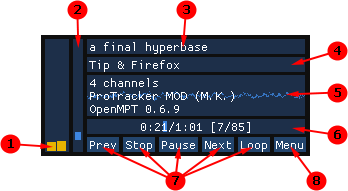
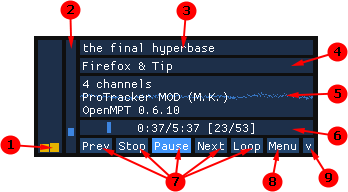
replayer: bump version to 0.3.0

diff --git a/source/RePlayer/CoreVersion.cpp b/source/RePlayer/CoreVersion.cpp
@@ -17,8 +17,8 @@
 namespace rePlayer
 {
     static constexpr uint32_t kMajorVersion = 0;
-    static constexpr uint32_t kMinorVersion = 2;
-    static constexpr uint32_t kPatchVersion = 1;
+    static constexpr uint32_t kMinorVersion = 3;
+    static constexpr uint32_t kPatchVersion = 0;
     static constexpr uint32_t kVersion = (kMajorVersion << 28) | (kMinorVersion << 14) | kPatchVersion;
 
     uint32_t Core::GetVersion()

diff --git a/README.md b/README.md
@@ -31,8 +31,9 @@ The main panel where you can see your playing song, and interact with the playba
 4. Artist(s).
 5. Playback informations (number of channels, playback type, player).
 6. Seek bar displaying playback time and song length (and playlist position and size). It's possible you can't interact with it if the player doesn't allow it.
-7. Classic playback buttons (go to previous song in the playlist, stop, play/pause, go to next song in the playlist, toogle the playlist loop)
-8. Menu (access to settings, enable/disable other panels, close the application...)
+7. Classic playback buttons (go to previous song in the playlist, stop, play/pause, go to next song in the playlist, toogle the playlist loop).
+8. Menu (access to settings, enable/disable other panels, close the application...).
+9. Song metadata, click to expand/fold the deck (protracker instruments, id tags, extra informations...).
 
 ## The library
 
@@ -84,7 +85,7 @@ Right click on selected songs bring a menu:
 ![rePlayer's Song Editor](/doc/songed.png)
 
 You can edit all the properties of a song there.
-- Info: database id (with L for library and P for playlist), file size, file crc and release year.
+- Info: database id (with L for library and P for playlist), file size, date when the file was added to the database and release year.
 - Title: main song title.
 - Subsong: if there are subsongs you can unfold by click the Subsong label. Change here the subsong title, end of playback behavior and rating.
 - Artist: the artist(s); you can add, remove and re-order these.
@@ -113,9 +114,10 @@ Note 2: while drag and dropping files, keep Ctrl pressed to force all files in t
 
 Enable/disable the songs focus there (when a song start to play, it is focused in the playlist and/or database).  
 AutoSave frequency of the rePlayer. (it will save on quit anyway).  
+Enable/disable the media hot keys (for playback and volume).  
 Transparency of the windows.  
 Live loggin can be enabled/disabled as well as its save on the disk. The log retention can be changed too (older log files than the retention days limit are deleted).  
-You can change the global settings of each players. I will not enter into the details here, I'm too lazy.
+You can change the global settings of each players. I will not enter into the details here, I'm too lazy (I've just enabled by default my simple surround filter because I like it).
 
 ## The tray icon
 
@@ -134,10 +136,11 @@ Middle click will turn on/off the invert States flag.
 ## Web Sites
 
 Here are the actual web sites you can import from (and thank you for all these repositories):
-- [Amiga Music Preservation](https://amp.dascene.net/): one of the best organized amiga music repository.
-- [The Mod Archive](https://modarchive.org/): a huge module repository.
-- [Modland](http://modland.com/pub/modules/): a multi-formats repository organized by format.
-- [High Voltage SID Collection](https://hvsc.de/): an exclusive Commodore 64 repository.
+- [Amiga Music Preservation](https://amp.dascene.net): one of the best organized amiga music repository.
+- [The Mod Archive](https://modarchive.org): a huge module repository.
+- [Modland](http://modland.com/pub/modules): a multi-formats repository organized by format.
+- [High Voltage SID Collection](https://hvsc.de): an exclusive Commodore 64 repository.
+- [SNDH](https://sndh.atari.org): Atari ST YM2149 archive.
 
 You can chat about some of these on the [Demozoo](https://discord.io/demozoo) discord server in the modland channel.
 

diff --git a/CHANGELOG.md b/CHANGELOG.md
@@ -1,7 +1,10 @@
 v0.3.0
 - Added NEZplug player
+- Added SNDH import
 - Updated adplug to 2.3.3.801
-- ImGui 1.89.53 (to fix the modals getting closed on focus)
+- ImGui 1.89.53 (to fix the modals getting closed on focus) with single axis auto resize patch
+- Settings for the media hot keys
+- Unfold deck option to display song metadata
 - Bug fixes
 
 v0.2.1:
